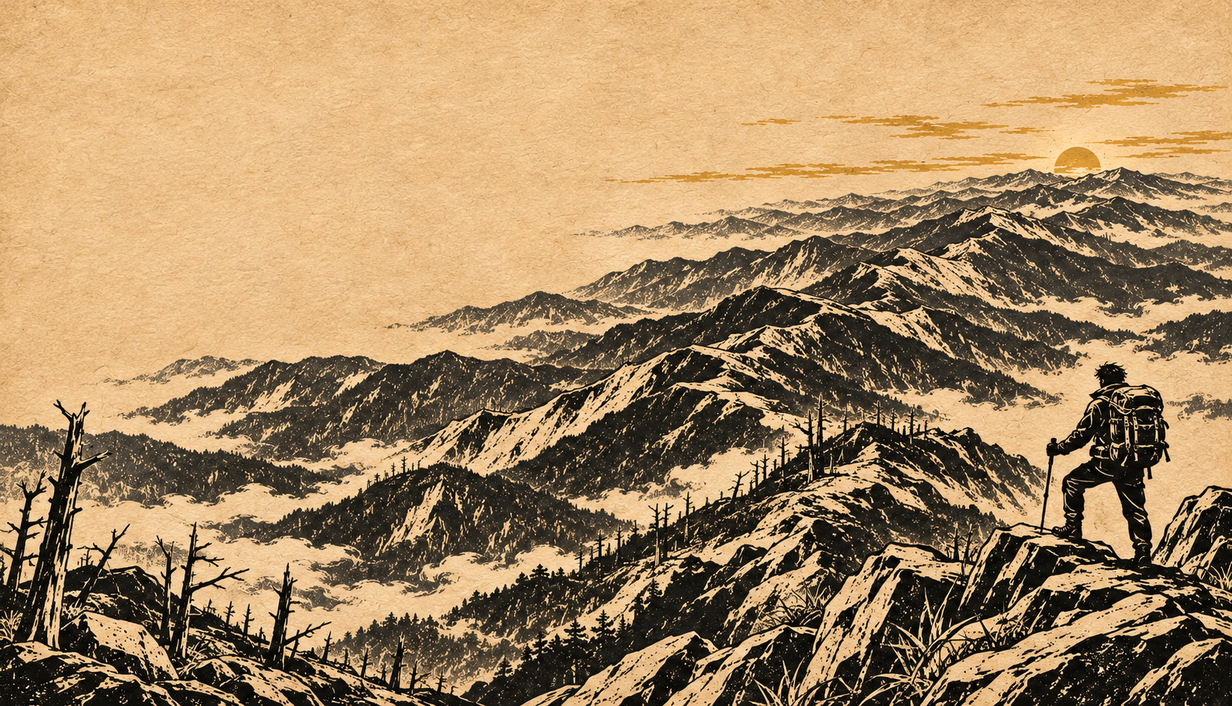
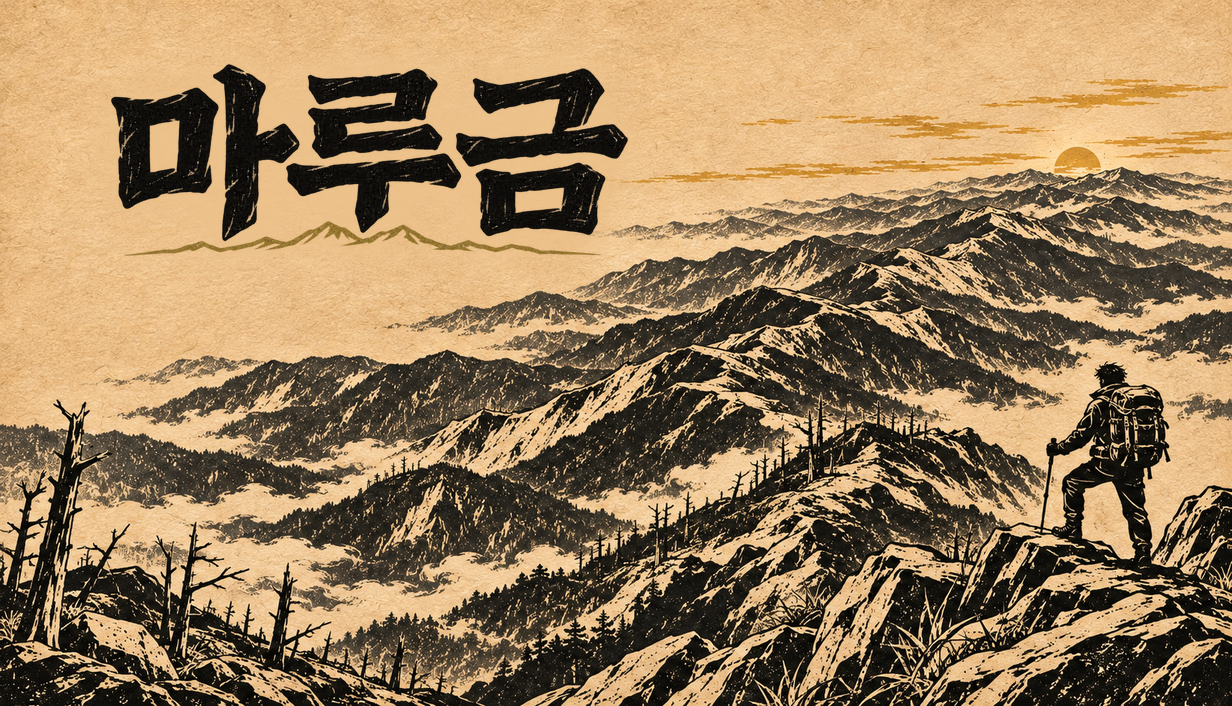
국 끓이기 불이 보이게, 스토어 캡슐 7장에 로고
- 국 끓이기: 냄비를 올리고 불을 냄비 아래에 바닥 맞춰 키운다. 둘레에 불빛을 깔아 바탕의 모닥불과 섞이지 않게
- 스토어: store/art/ 의 글자 없는 원본에 로고를 얹는 tools/store-logo.py. 헤더 920x430, 작은·큰·세로 캡슐, 라이브러리 캡슐, itch 표지, 공유 카드
- 스팀 규격 확인 결과를 문서에 적었다. 라이브러리 로고 크기만 템플릿으로 한 번 더 볼 것

Changed region(s): [[0.0925, 0.0935, 0.5244, 0.3739]]

diff --git a/src/ui/handwork.ts b/src/ui/handwork.ts
@@ -231,10 +231,15 @@ function cookGame(): Game {
     draw(g, w, h, c) {
       const cx = w / 2;
       // 불. 그림이 있으면 세기만큼 키우고, 너무 세면 붉게 덮는다
-      // 불은 냄비 아래에 바닥을 맞춰 위로 자란다
-      const fs = 34 + heat * 46;
-      if (put(g, 'fire', cx, 122 - fs / 2, fs)) {
-        if (heat > 0.9) { g.fillStyle = 'rgba(224,122,95,0.35)'; g.beginPath(); g.arc(cx, 122 - fs / 2, fs / 2, 0, Math.PI * 2); g.fill(); }
+      // 불은 냄비 아래에 바닥을 맞춰 위로 자란다. 바탕 그림의 모닥불과 섞이지 않게 둘레를 빛으로 밝힌다
+      const fs = 44 + heat * 50;
+      const fy = 114 - fs / 2;
+      const glow = g.createRadialGradient(cx, fy + fs * 0.2, 4, cx, fy + fs * 0.2, fs * 0.9);
+      glow.addColorStop(0, heat > 0.9 ? 'rgba(240,110,80,0.7)' : `rgba(255,190,90,${0.25 + heat * 0.45})`);
+      glow.addColorStop(1, 'rgba(255,190,90,0)');
+      g.fillStyle = glow; g.fillRect(cx - fs, fy - fs / 2, fs * 2, fs * 1.6);
+      if (put(g, 'fire', cx, fy, fs)) {
+        if (heat > 0.9) { g.fillStyle = 'rgba(224,122,95,0.35)'; g.beginPath(); g.arc(cx, fy, fs / 2, 0, Math.PI * 2); g.fill(); }
       } else {
         const fh = 6 + heat * 26;
         for (let i = -2; i <= 2; i++) {
@@ -244,13 +249,13 @@ function cookGame(): Game {
       }
       // 냄비와 김. 끓으면 냄비가 살짝 들썩인다
       const jig = heat >= band[0] ? Math.sin(bubble * 3) * 1.2 : 0;
-      if (!put(g, 'pot', cx, 50 + jig, 72)) {
+      if (!put(g, 'pot', cx, 38 + jig, 62)) {
         g.fillStyle = '#4a4f57'; g.fillRect(cx - 50, 56, 100, 40);
         g.fillStyle = '#2d3036'; g.fillRect(cx - 56, 52, 112, 6);
       }
       if (heat >= band[0]) {
         g.strokeStyle = 'rgba(250,245,230,0.7)'; g.lineWidth = 2;
-        for (let i = -1; i <= 1; i++) { g.beginPath(); g.moveTo(cx + i * 16, 18); g.quadraticCurveTo(cx + i * 16 + Math.sin(bubble + i) * 8, 9, cx + i * 16, 0); g.stroke(); }
+        for (let i = -1; i <= 1; i++) { g.beginPath(); g.moveTo(cx + i * 14, 12); g.quadraticCurveTo(cx + i * 14 + Math.sin(bubble + i) * 6, 6, cx + i * 14, 0); g.stroke(); }
       }
       label(g, `${Math.max(0, Math.ceil(total - t))}초`, 40, h - 38, 'left', c);
       label(g, burn > 0.6 ? '바닥이 탄다' : '불 세기', w - 40, h - 38, 'right', c);

diff --git a/tools/store-logo.py b/tools/store-logo.py
@@ -1,0 +1,46 @@
+# 스토어 그림에 로고 얹기. store/art/ 의 글자 없는 원본에 store/steam-library-logo.png 를 얹어 store/ 에 쓴다
+# 사용: python tools/store-logo.py   (Pillow 필요)
+# 스팀 규격(2026-11 확인): 헤더 920x430, 작은 캡슐 462x174, 큰 캡슐 1232x706, 세로 캡슐 748x896, 라이브러리 캡슐 600x900
+# 라이브러리 히어로·페이지 바탕에는 글자를 넣지 않는다
+import os
+from PIL import Image, ImageFilter
+
+root = os.path.join(os.path.dirname(__file__), '..', 'store')
+
+# 이름: (최종 크기, 로고 너비 비율, 로고 가운데 x 비율, 로고 위 y 비율)
+JOBS = {
+    'steam-header': ((920, 430), 0.44, 0.27, 0.10),
+    'steam-capsule-small': ((462, 174), 0.56, 0.32, 0.08),
+    'steam-capsule-main': ((1232, 706), 0.42, 0.30, 0.09),
+    'steam-capsule-vertical': ((748, 896), 0.72, 0.50, 0.06),
+    'steam-library-capsule': ((600, 900), 0.74, 0.50, 0.06),
+    'itch-cover': ((630, 500), 0.56, 0.38, 0.07),
+    'share-card': ((1200, 630), 0.40, 0.72, 0.08),
+}
+
+def cover(im, size):
+    w, h = size
+    s = max(w / im.width, h / im.height)
+    im = im.resize((round(im.width * s), round(im.height * s)), Image.LANCZOS)
+    x, y = (im.width - w) // 2, (im.height - h) // 2
+    return im.crop((x, y, x + w, y + h))
+
+logo = Image.open(os.path.join(root, 'steam-library-logo.png')).convert('RGBA')
+logo = logo.crop(logo.getchannel('A').point(lambda a: 255 if a > 8 else 0).getbbox())
+
+for name, (size, lw, cx, top) in JOBS.items():
+    base = cover(Image.open(os.path.join(root, 'art', name + '.png')).convert('RGB'), size).convert('RGBA')
+    w = round(size[0] * lw)
+    lg = logo.resize((w, round(logo.height * w / logo.width)), Image.LANCZOS)
+    x, y = round(size[0] * cx - w / 2), round(size[1] * top)
+    # 글자 뒤에 종이 빛을 번지게 깔아 그림의 선과 섞이지 않게 한다
+    pad = max(8, w // 12)
+    halo_a = Image.new('L', (lg.width + pad * 2, lg.height + pad * 2), 0)
+    halo_a.paste(lg.getchannel('A').filter(ImageFilter.MaxFilter(9)), (pad, pad))
+    halo_a = halo_a.filter(ImageFilter.GaussianBlur(pad / 2)).point(lambda a: min(255, a * 2) * 0.85)
+    paper = base.crop((x, y, x + lg.width, y + lg.height)).convert('RGB').resize((1, 1), Image.BOX).getpixel((0, 0))
+    halo = Image.new('RGBA', halo_a.size, paper + (0,)); halo.putalpha(halo_a.convert('L'))
+    base.alpha_composite(halo, (x - pad, y - pad))
+    base.alpha_composite(lg, (x, y))
+    base.convert('RGB').save(os.path.join(root, name + '.png'), optimize=True)
+    print(name, size)

diff --git a/docs/art-list-3.md b/docs/art-list-3.md
@@ -1,6 +1,6 @@
 # 마루금 그림 3차 목록 — 빠진 것 전부와 새로 필요한 것 전부
 
-> **다 들어왔다 (2026-11-03).** 81장 전부. 게임 그림 71장은 webp로 바꿔 코드에 이었고(손 놀이 바탕·도구, UI 아이콘, 로고·종이·수첩·지도 바탕, 죽음 엔딩 여섯과 숨은 장면 둘), 스토어 10장은 `store/`에 PNG 그대로 둔다. 만든 프롬프트는 `docs/generated/art-prompts.md` 끝에 남아 있다.
+> **다 들어왔다 (2026-11-03).** 81장 전부. 게임 그림 71장은 webp로 바꿔 코드에 이었고(손 놀이 바탕·도구, UI 아이콘, 로고·종이·수첩·지도 바탕, 죽음 엔딩 여섯과 숨은 장면 둘), 스토어 10장은 `store/`에 PNG로 둔다. 캡슐·헤더·itch 표지·공유 카드 7장은 `store/art/`의 글자 없는 원본에 `python tools/store-logo.py`로 로고를 얹은 것이다(헤더 920x430은 옛 `steam-header`를 줄여 만든다). 만든 프롬프트는 `docs/generated/art-prompts.md` 끝에 남아 있다.
 
 2026-11-03 기준. 코드가 찾는데 없는 그림(A)과, UI·손 놀이·엔딩·스토어까지 새로 들어가면 좋은 그림(B~F)을 한 문서에 모았다.
 그림을 만드는 쪽(GPT 등)에 **묶음별 코드 블록을 그대로 붙여 넣으면** 된다. 한 번에 10장 안팎씩 나눠 요청하는 게 안전하다.

diff --git a/docs/review.md b/docs/review.md
@@ -212,7 +212,7 @@
 | (끝남) 히든 요소: 세워 두고 안 쓰는 표시 40개(범종·숫자 방송·열여섯 살 아이·재워 준 손님·방명록 …)를 엮어 향로봉의 숨은 장면과 숨은 엔딩으로 | `src/data/*`, 엔딩 |
 | 손 놀이를 더: 리본 묶기(매듭), 훈연·말리기, 올무 확인. | `src/ui/handwork.ts` |
 | 사건 결과에 수치 변화 칩(이동 화면처럼 `땔감 +2`), 짐 탭 장비 칸을 누르면 쓰기 | `src/ui/ui.ts`, `src/ui/dock.ts` |
-| 스토어 그림 10장은 `store/`에 있다. 스팀 페이지에 올릴 때 규격을 Steamworks 안내로 다시 확인하고, 캡슐 위에 로고(ui-logo)를 얹는다 | `store/` |
+| 스토어: 캡슐 7장에 로고를 얹었다(`python tools/store-logo.py`, 원본은 `store/art/`). 스팀에 올리기 전에 Steamworks 템플릿으로 라이브러리 로고 크기(1280x720 또는 1280x1280)만 한 번 더 확인 | `store/` |
 | 수연의 흔적 표시(`suyeon:*`)를 재회 엔딩 글에 비추기 | 엔딩 사건 |
 | 되돌아갈 이유: 지역 자원 고갈 표시가 없다 | 지도 오른쪽 목록 |
 | all-events 안의 옛 봇(careful)이 24판 중 19판을 'stuck' 으로 끝낸다. 지금 규칙을 모르는 봇이다. bot-sim 으로 바꾸거나 지운다 | `tools/tests/all-events.cjs` |
